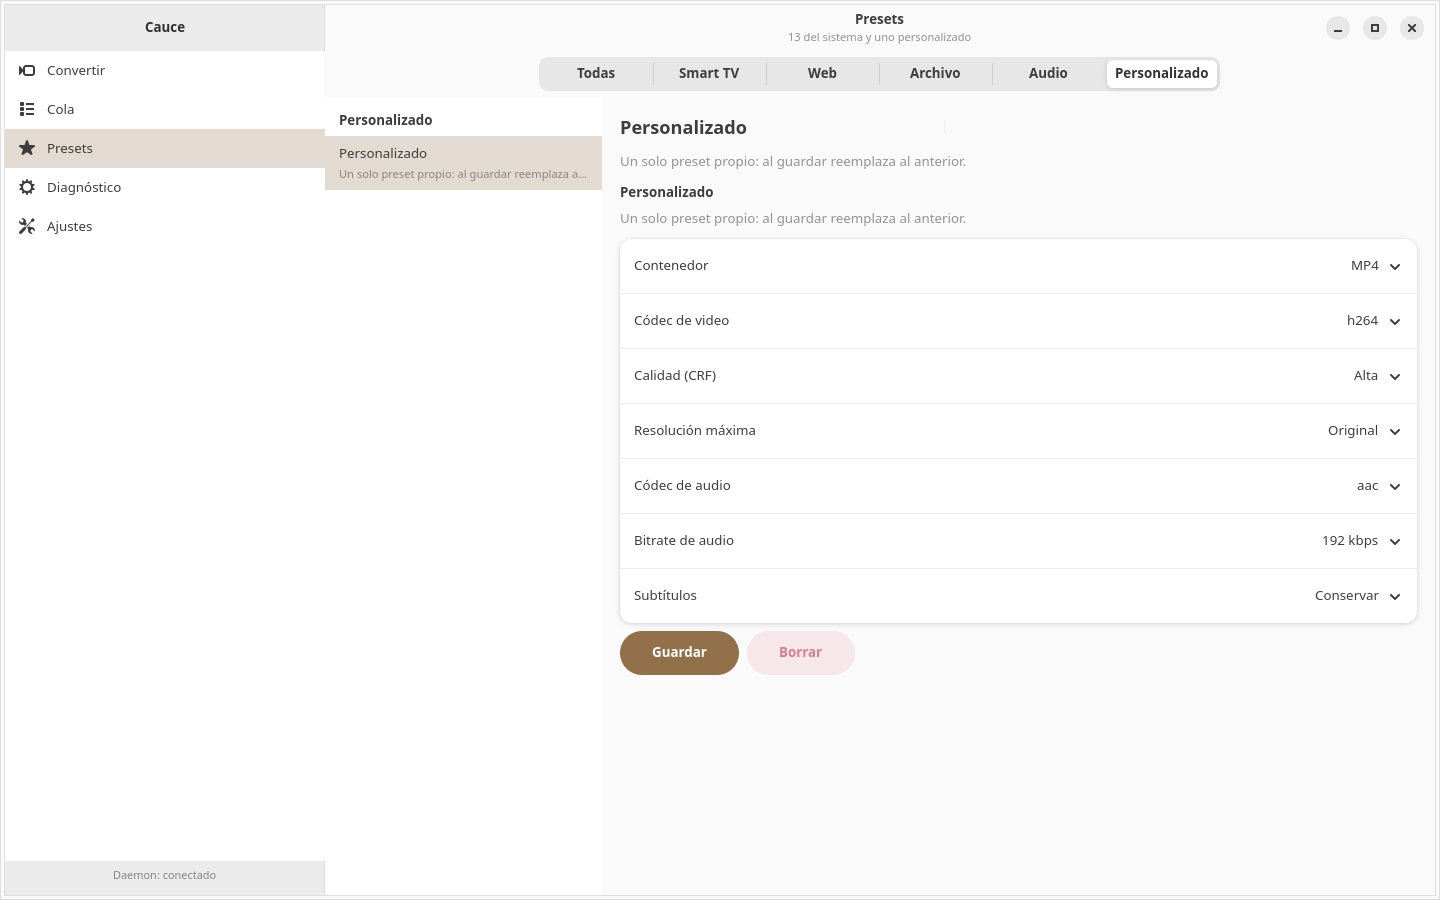
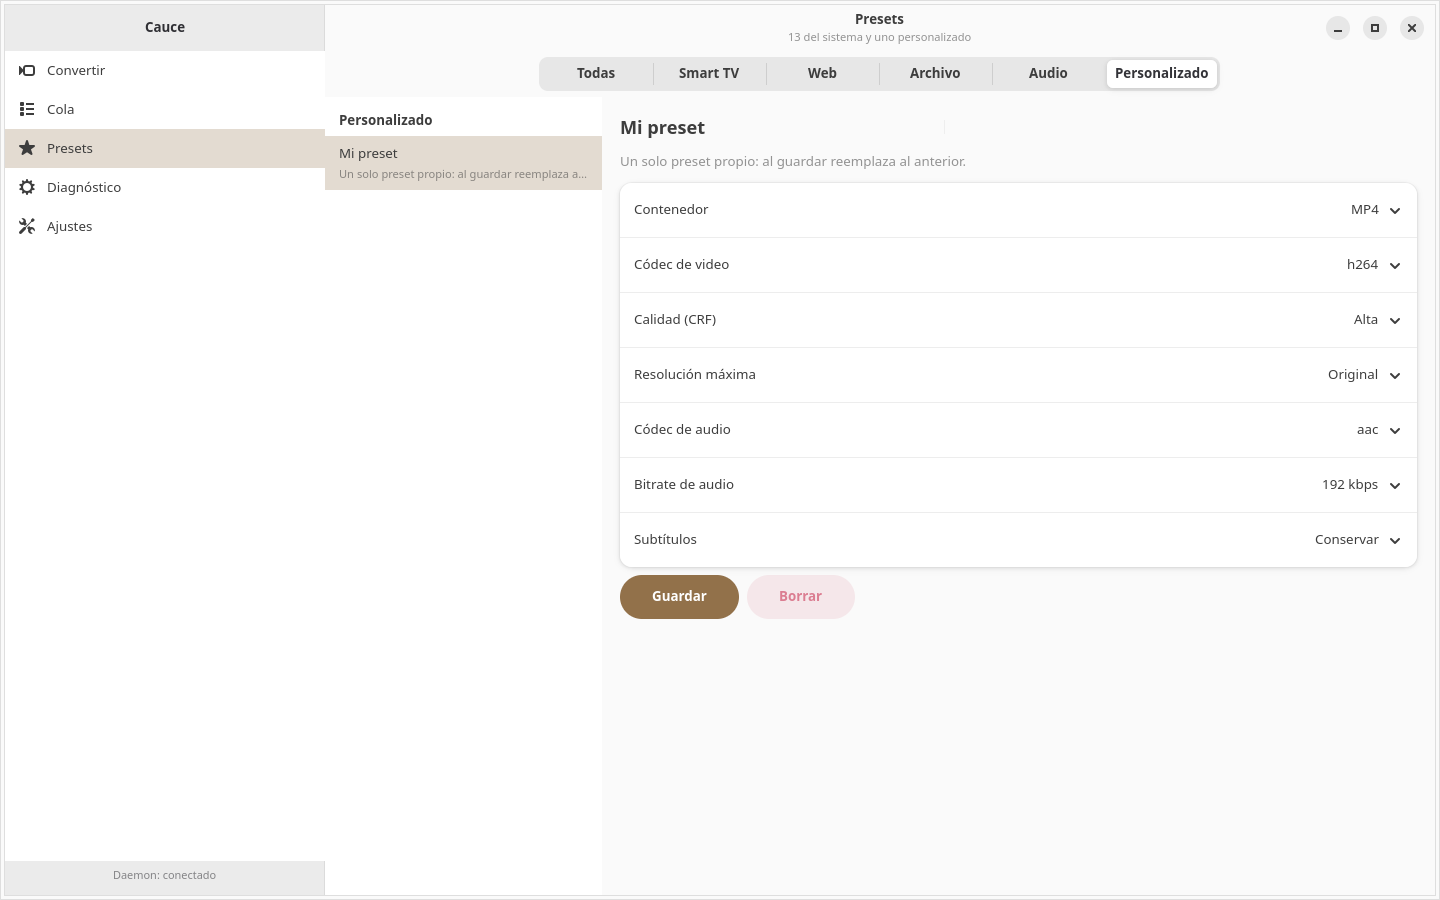
docs(qa): recapture the deduplicated custom editor

diff --git a/odd/tasks/cauce-0.1.md b/odd/tasks/cauce-0.1.md
@@ -768,3 +768,10 @@ Copiados de `architecture.md` §19 y `ui-mvp.md` §170-179; se marcan solo con e
 - **Defecto observado en esa captura**: la palabra "Personalizado" aparece **tres veces** (encabezado de la sección, ítem de la lista y título del detalle) y la frase "Un solo preset propio: al guardar reemplaza al anterior." dos veces. Es duplicación de jerarquía, no funcional; queda anotada para una unidad de presentación.
 - **`08-error-daemon.png`** (1440×900): error **real** provocado deteniendo `cauce.socket`/`cauce.service`. Banner "No se pudo conectar con el daemon." con acción Reconectar y pie "Daemon: sin conexión". **Ningún `ErrorCode` crudo a la vista**: el detalle técnico vive en el desplegable, cerrado por defecto. La captura prueba el mensaje humano; no muestra el desplegable expandido.
 - No se tocó código en esta pasada y **no se reconstruyó el paquete**: sigue el instalado (`sha256 3b4183ccf33737bd42c3ca834e52ca35c99bab056fc6fb154d2b56568750beb9`).
+
+**L57 (deduplicación del editor) — corregida, recapturada y en paquete nuevo:**
+- El panel de detalle del personalizado tiene **un solo título** y **una sola descripción**: `custom_headers()` es la única fuente del par (título, pista) y `custom_editor_heading()` devuelve `(None, None)` para que el grupo de campos no repita encabezado. Antes el `PreferencesGroup` del editor redibujaba lo que ya ponía el panel.
+- La fila de la lista usa **"Mi preset" / "My preset" / "Meu preset"** (`presets.custom_row_name`); el chip y el encabezado de categoría siguen diciendo "Personalizado".
+- Test `custom_detail_has_one_title_and_one_description`. Suite **296/296**; `fmt` y `clippy -D warnings` limpios.
+- **`07-presets-custom.png` recapturada y verificada**: chip Personalizado activo, fila "Mi preset", título de detalle "Mi preset" una sola vez, descripción una sola vez, los siete campos y Guardar/Borrar. El clic se validó comparando el frame previo (`CAMBIO_OK`).
+- **Paquete nuevo**: `sha256 15438697a20ea9bc663b3a7ce5936d9332b3b4142519de2009a111e39828877d`, instalado (`dpkg 0.1.0-1`) con `cauce.socket` **active**.

diff --git a/docs/release-notes-0.1.0.md b/docs/release-notes-0.1.0.md
@@ -108,4 +108,4 @@ Two non-fixture AV1 + Opus 1280×720 videos were converted through the **install
 
 Both jobs finished `completed`; the GUI showed "Daemon: conectado" against the real `XDG_RUNTIME_DIR` with both rows marked "Completada". `cauce.socket` was active with `NRestarts=0` after the socket-activation fix.
 
[2 lines of base64/hex data omitted]
